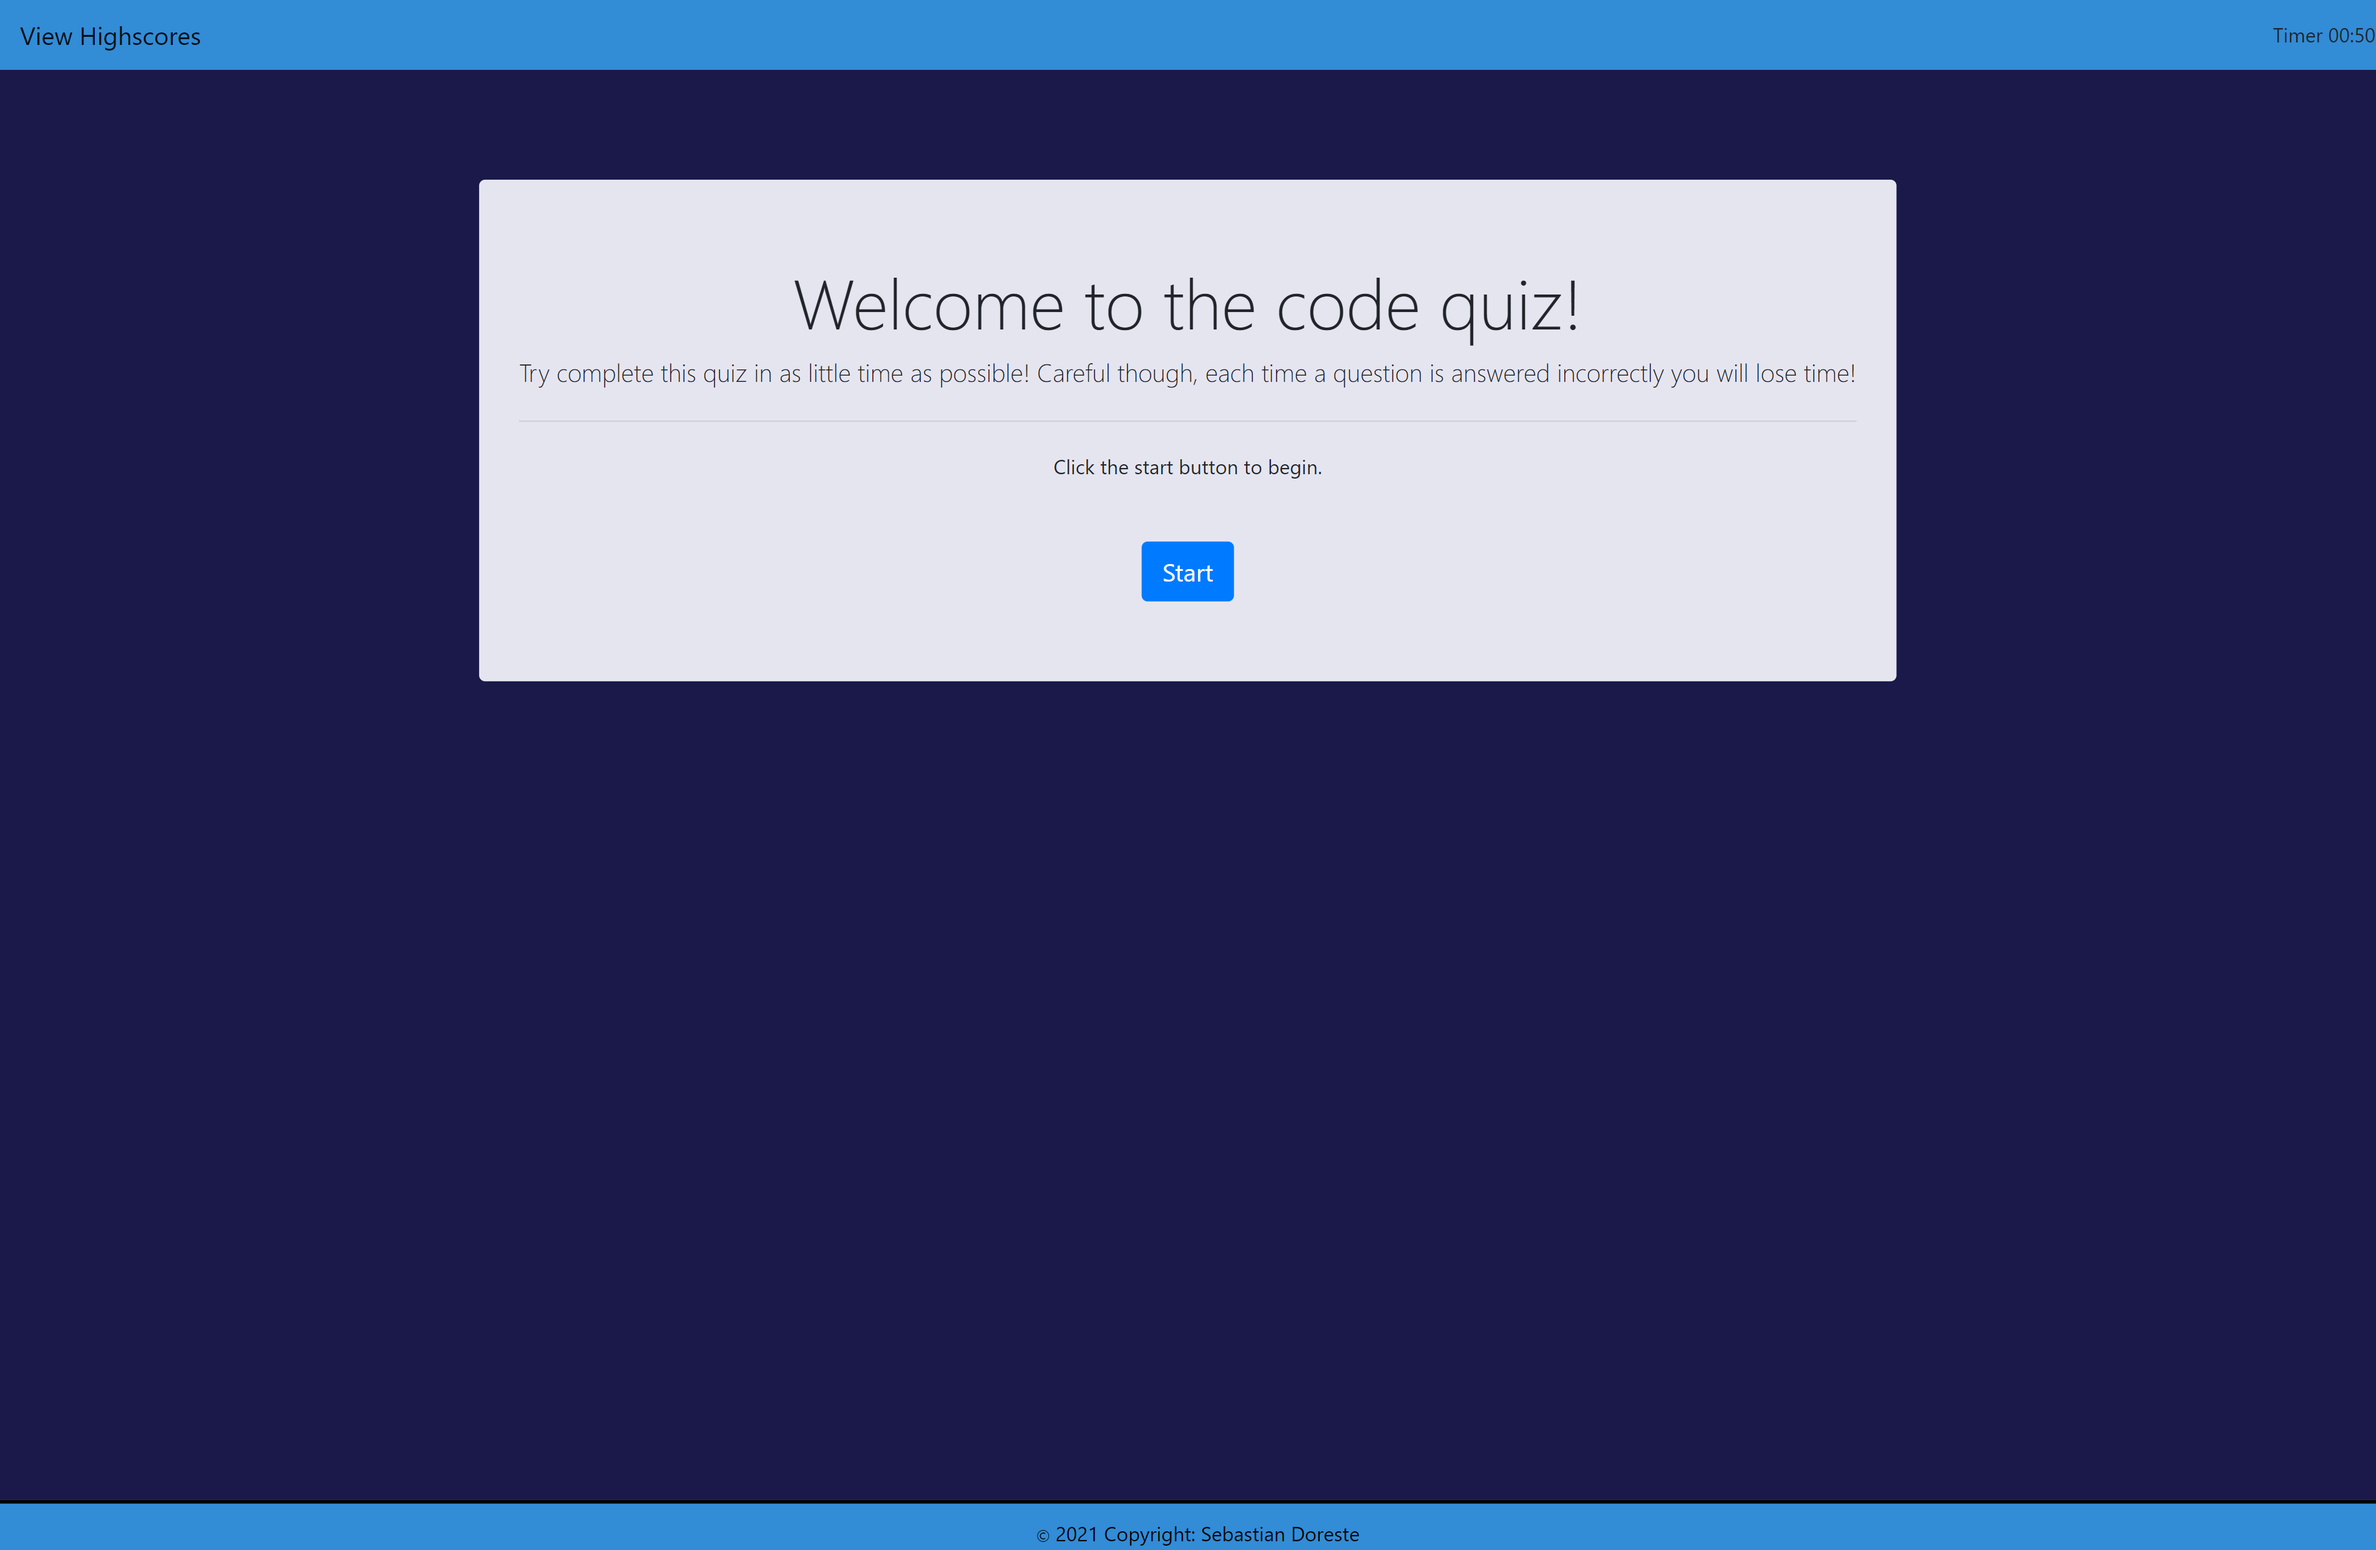
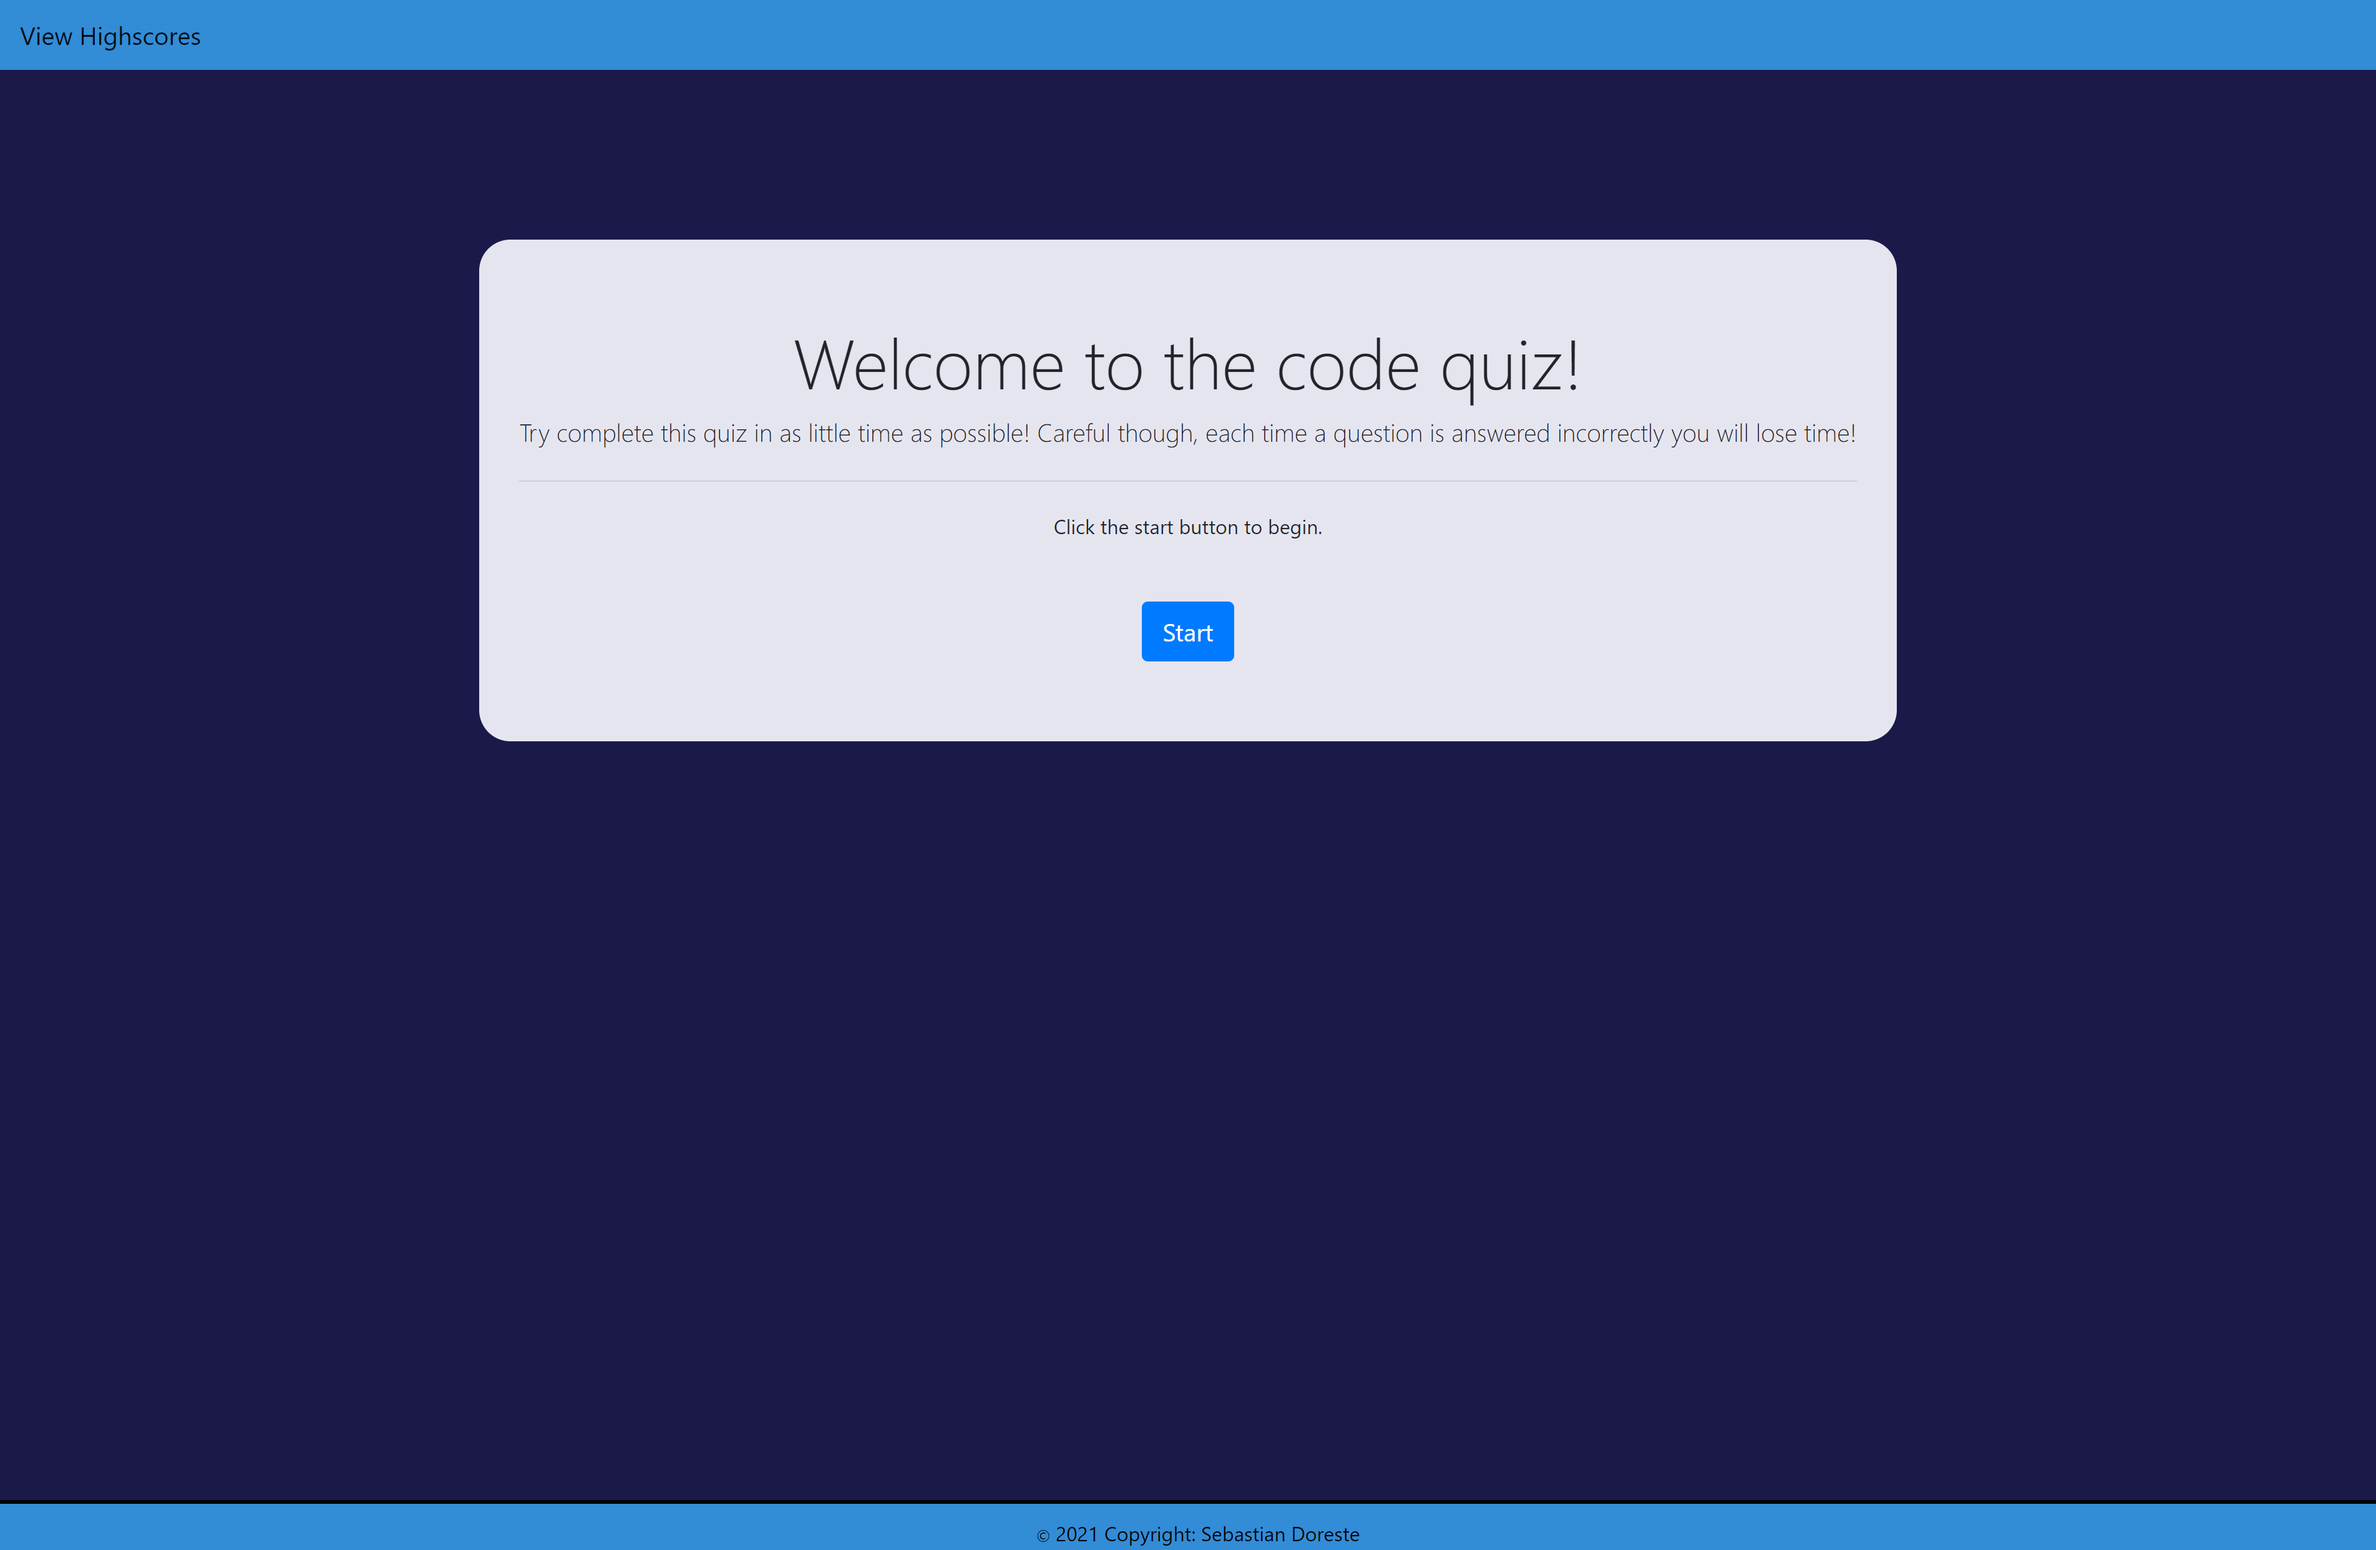
re-styled

diff --git a/javascript/quiz.js b/javascript/quiz.js
@@ -14,7 +14,7 @@ const quizQuestions = [
     {
         question: "Inside which element do we put the JavaScript?",
         answers: [
-            { text: "<script>", correctAnswer: true},
+            { text: "<script>", correctAnswer: true },
             { text: "<js>", correctAnswer: false },
             { text: "<scripting>", correctAnswer: false },
             { text: "<javascript>", correctAnswer: false },
@@ -23,7 +23,7 @@ const quizQuestions = [
     {
         question: "Which operator is used to assign a value to a variable?",
         answers: [
-            { text: "+", correctAnswer: false},
+            { text: "+", correctAnswer: false },
             { text: "x", correctAnswer: false },
             { text: "-", correctAnswer: false },
             { text: "=", correctAnswer: true },
@@ -39,8 +39,7 @@ const quizQuestions = [
         ],
     },
     {
-        question:
-            "JavaScript is case sensitive.",
+        question: "JavaScript is case sensitive.",
         answers: [
             { text: "true", correctAnswer: true },
             { text: "false", correctAnswer: false },

diff --git a/quiz.html b/quiz.html
@@ -39,7 +39,7 @@
                         <!-- start jumbotron -->
                         <div class="jumbotron text-center mt-5">
                             <h2>Coding Quiz</h2>
-                            <div id="timer-nav" class="ml-auto font-weight-bold mt-3 mb-3">Timer 00:50</div>
+                            <div id="timer-nav" class="ml-auto font-weight-bolder mt-3 mb-3">Timer 00:50</div>
                             <div id="question-number">Question Number</div>
                             <div
                                 id="question-container"
